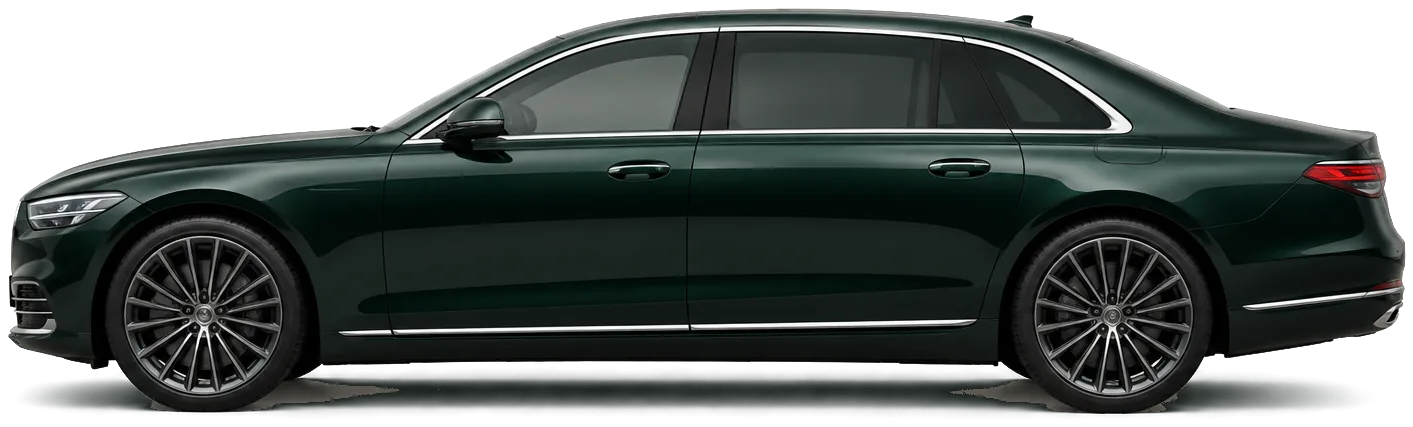
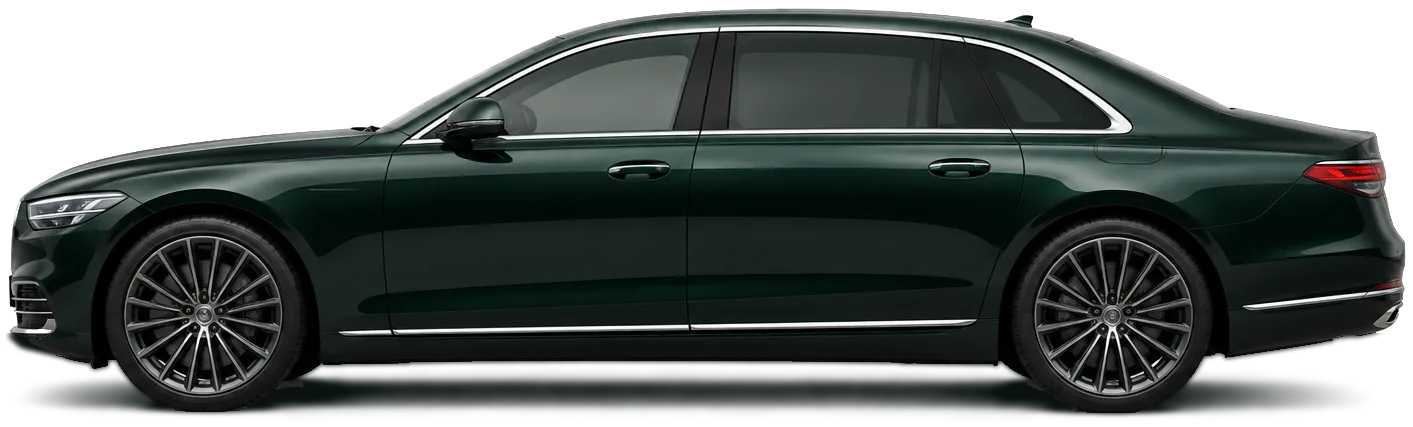
fix(aurel-web): tablet hero geometry, softer render shadows
The tablet hero now stacks like the phone, with the second line placed
from the car's height. Shadows under the tyres no longer show a cut
edge when the car is zoomed. Airport poster car overlaps less of the
word.

diff --git a/apps/aurel-web/src/pages/home/home.css b/apps/aurel-web/src/pages/home/home.css
@@ -3,6 +3,7 @@
 /* ---------- Scenes 1 to 3: the car stays, the page changes around it ---------- */
 .hero {
   --fs: min(18.5vw, 25svh);
+  --car-w: min(80vw, calc(var(--fs) * 5));
   position: relative;
   height: 330svh;
 }
@@ -72,7 +73,6 @@
 /* The car: one element for the whole stage, moved only by transform. */
 .hero__car {
   position: absolute;
-  --car-w: min(80vw, calc(var(--fs) * 5));
   left: 50%;
   bottom: calc(5svh + var(--fs) * 0.56);
   width: var(--car-w);
@@ -305,9 +305,12 @@
 }
 
 /* Tablet and phone: the type stacks, the car is cropped off the right edge. */
-@media (max-width: 833px) {
+@media (max-width: 1099px) {
   .hero {
     --fs: min(19vw, 15svh);
+    --car-w: 170vw;
+    --car-top: calc(var(--frame-h) + var(--space-3) + var(--fs) * 0.95);
+    --b-top: calc(var(--car-top) + var(--car-w) * 0.262);
     height: 300svh;
   }
 
@@ -318,30 +321,29 @@
   .hero__line--b {
     right: auto;
     left: var(--margin);
-    top: calc(var(--frame-h) + var(--space-3) + var(--fs) * 3.4);
+    top: var(--b-top);
     bottom: auto;
   }
 
   .hero__car {
-    --car-w: 170vw;
     left: 4vw;
     margin-left: 0;
     bottom: auto;
-    top: calc(var(--frame-h) + var(--space-3) + var(--fs) * 0.95);
+    top: var(--car-top);
     transform-origin: 35% 60%;
   }
 
   .hero__kicker {
     bottom: auto;
     left: var(--margin);
-    top: calc(var(--frame-h) + var(--space-3) + var(--fs) * 4.5);
+    top: calc(var(--b-top) + var(--fs) * 1.05);
   }
 
   .hero__clock {
     left: auto;
     right: var(--margin);
     bottom: auto;
-    top: calc(var(--frame-h) + var(--space-3) + var(--fs) * 4.5);
+    top: calc(var(--b-top) + var(--fs) * 1.05);
   }
 
   .hero__start {
@@ -433,13 +435,17 @@
   }
 }
 
-@media (min-width: 834px) and (max-width: 1099px) {
+@media (min-width: 600px) and (max-width: 1099px) {
+  .hero {
+    --car-w: 118vw;
+  }
+
   .hero__start {
-    width: 40vw;
+    max-width: 560px;
   }
 }
 
-@media (min-width: 834px) {
+@media (min-width: 1100px) {
   .hero.is-static .hero__stage {
     height: 100svh;
   }

diff --git a/apps/aurel-web/src/pages/home/Hero.tsx b/apps/aurel-web/src/pages/home/Hero.tsx
@@ -54,7 +54,7 @@ const mix = (a: Pose, b: Pose, t: number): Pose => ({
 export function Hero() {
   const ref = useRef<HTMLElement>(null);
   const reduce = useReducedMotion();
-  const narrow = useMediaQuery("(max-width: 833px)");
+  const narrow = useMediaQuery("(max-width: 1099px)");
   const p = useScrollProgress(ref, !reduce);
   const clock = useClock();
   const start = useStartBooking();
@@ -65,7 +65,7 @@ export function Hero() {
   // Poses in viewport units, relative to the car's resting place.
   const A: Pose = { x: 0, y: 0, s: 1 };
   const B: Pose = narrow ? { x: -40, y: 4, s: 1.6 } : { x: -22, y: -4, s: 2.35 };
-  const C: Pose = narrow ? { x: 0, y: 6, s: 0.86 } : { x: -21, y: 6, s: 0.6 };
+  const C: Pose = narrow ? { x: 0, y: 6, s: 0.86 } : { x: -21, y: -2, s: 0.6 };
   const pose = p < 0.42 ? mix(A, B, ease(range(p, 0.15, 0.42))) : mix(B, C, ease(range(p, 0.56, 0.8)));
 
   const carStyle: CSSProperties = reduce
